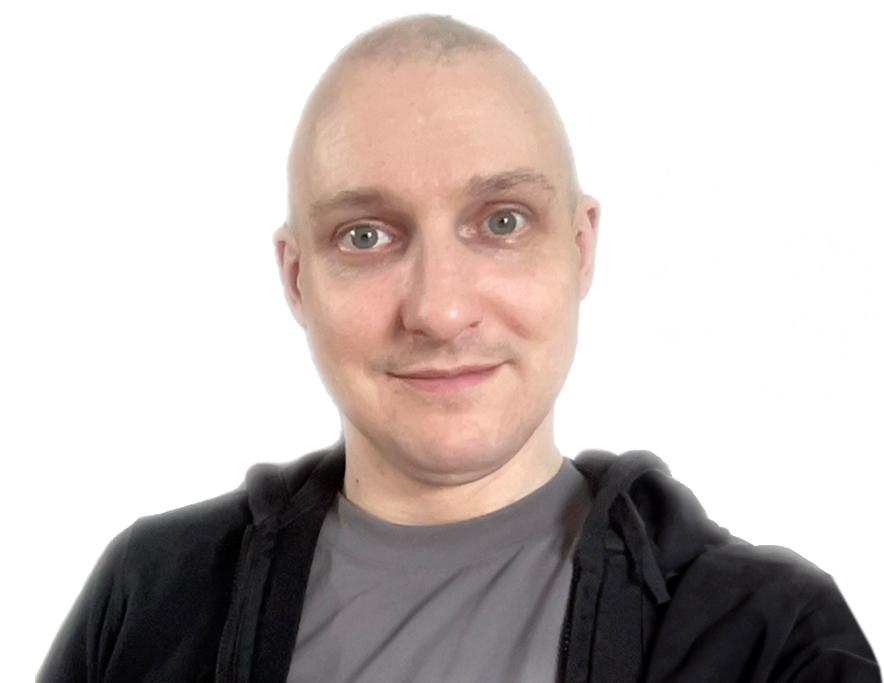
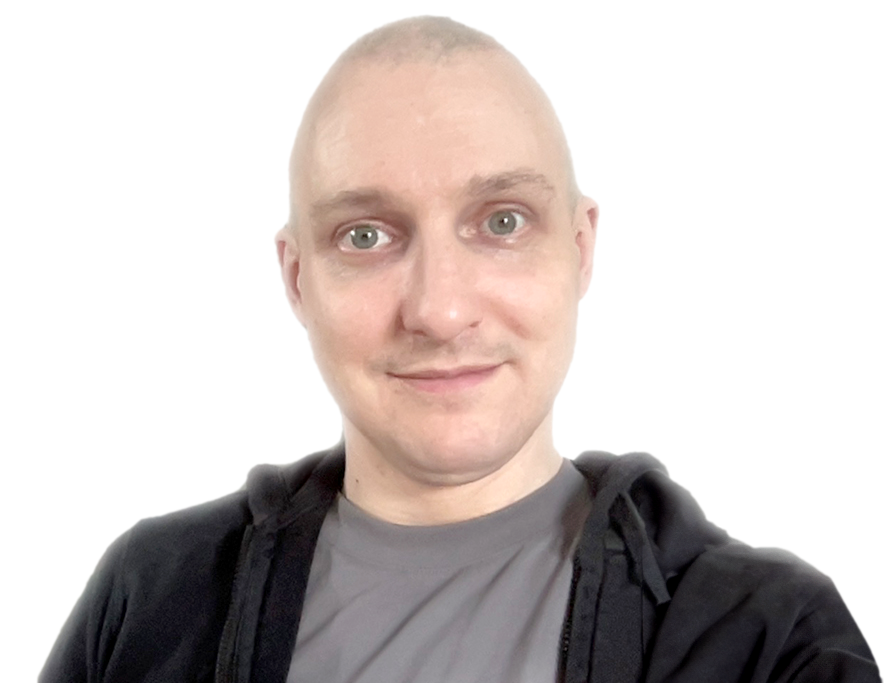
Replace headshot with edited version

diff --git a/src/styles/_about.scss b/src/styles/_about.scss
@@ -28,7 +28,8 @@
     }
     img {
         padding-top: 20px;
-        opacity: 0.9;
+        // opacity: 0.96;
         display: inline-block;
+        filter: grayscale(0.42) saturate(1.67) brightness(0.99);
     }
 }
